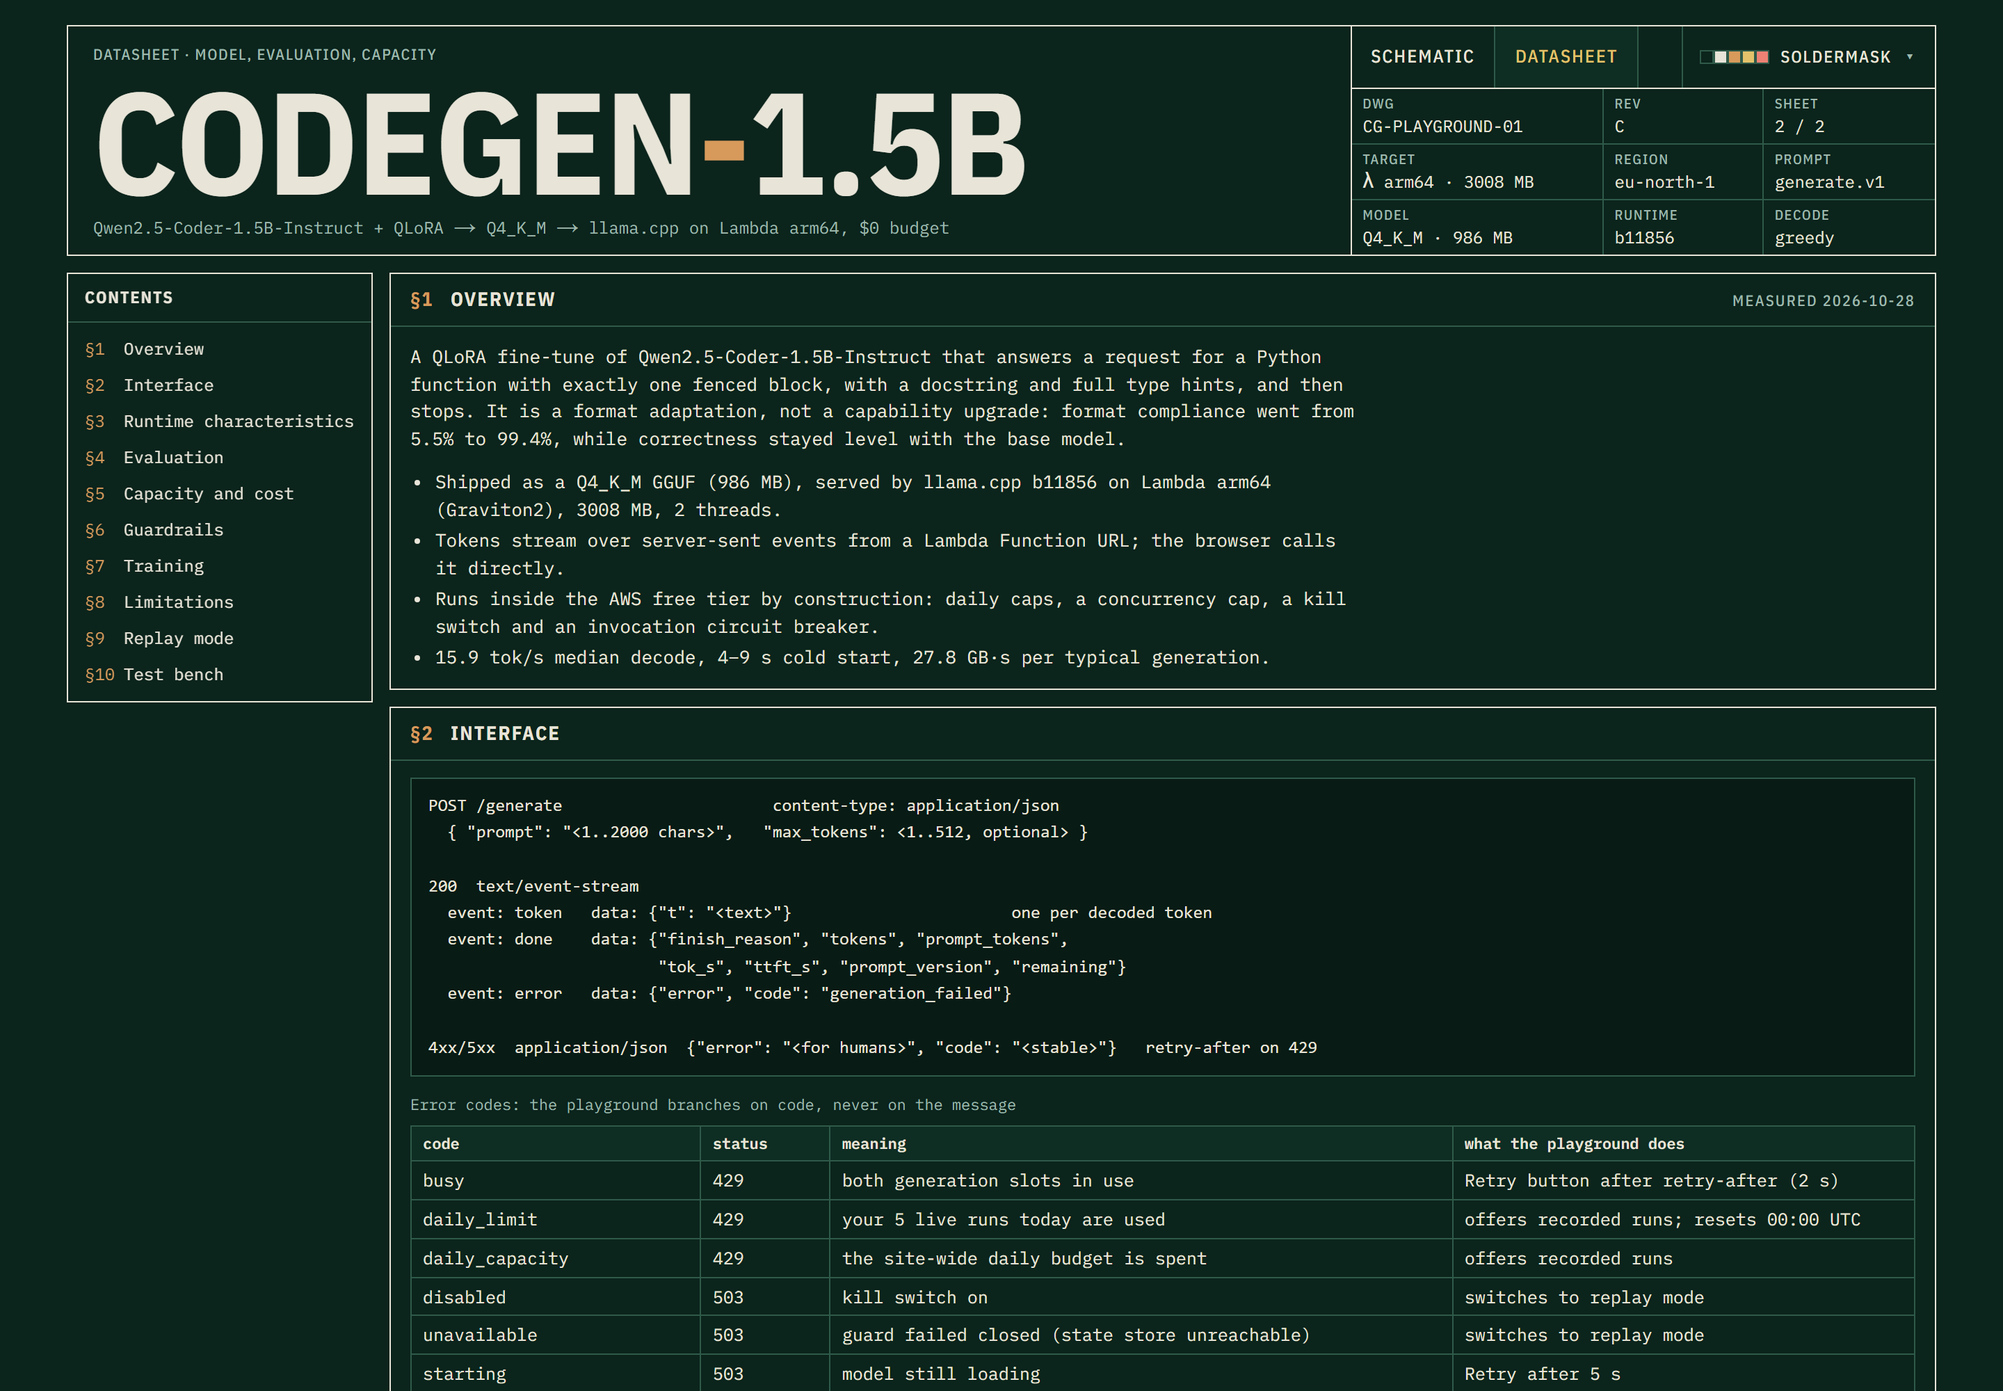
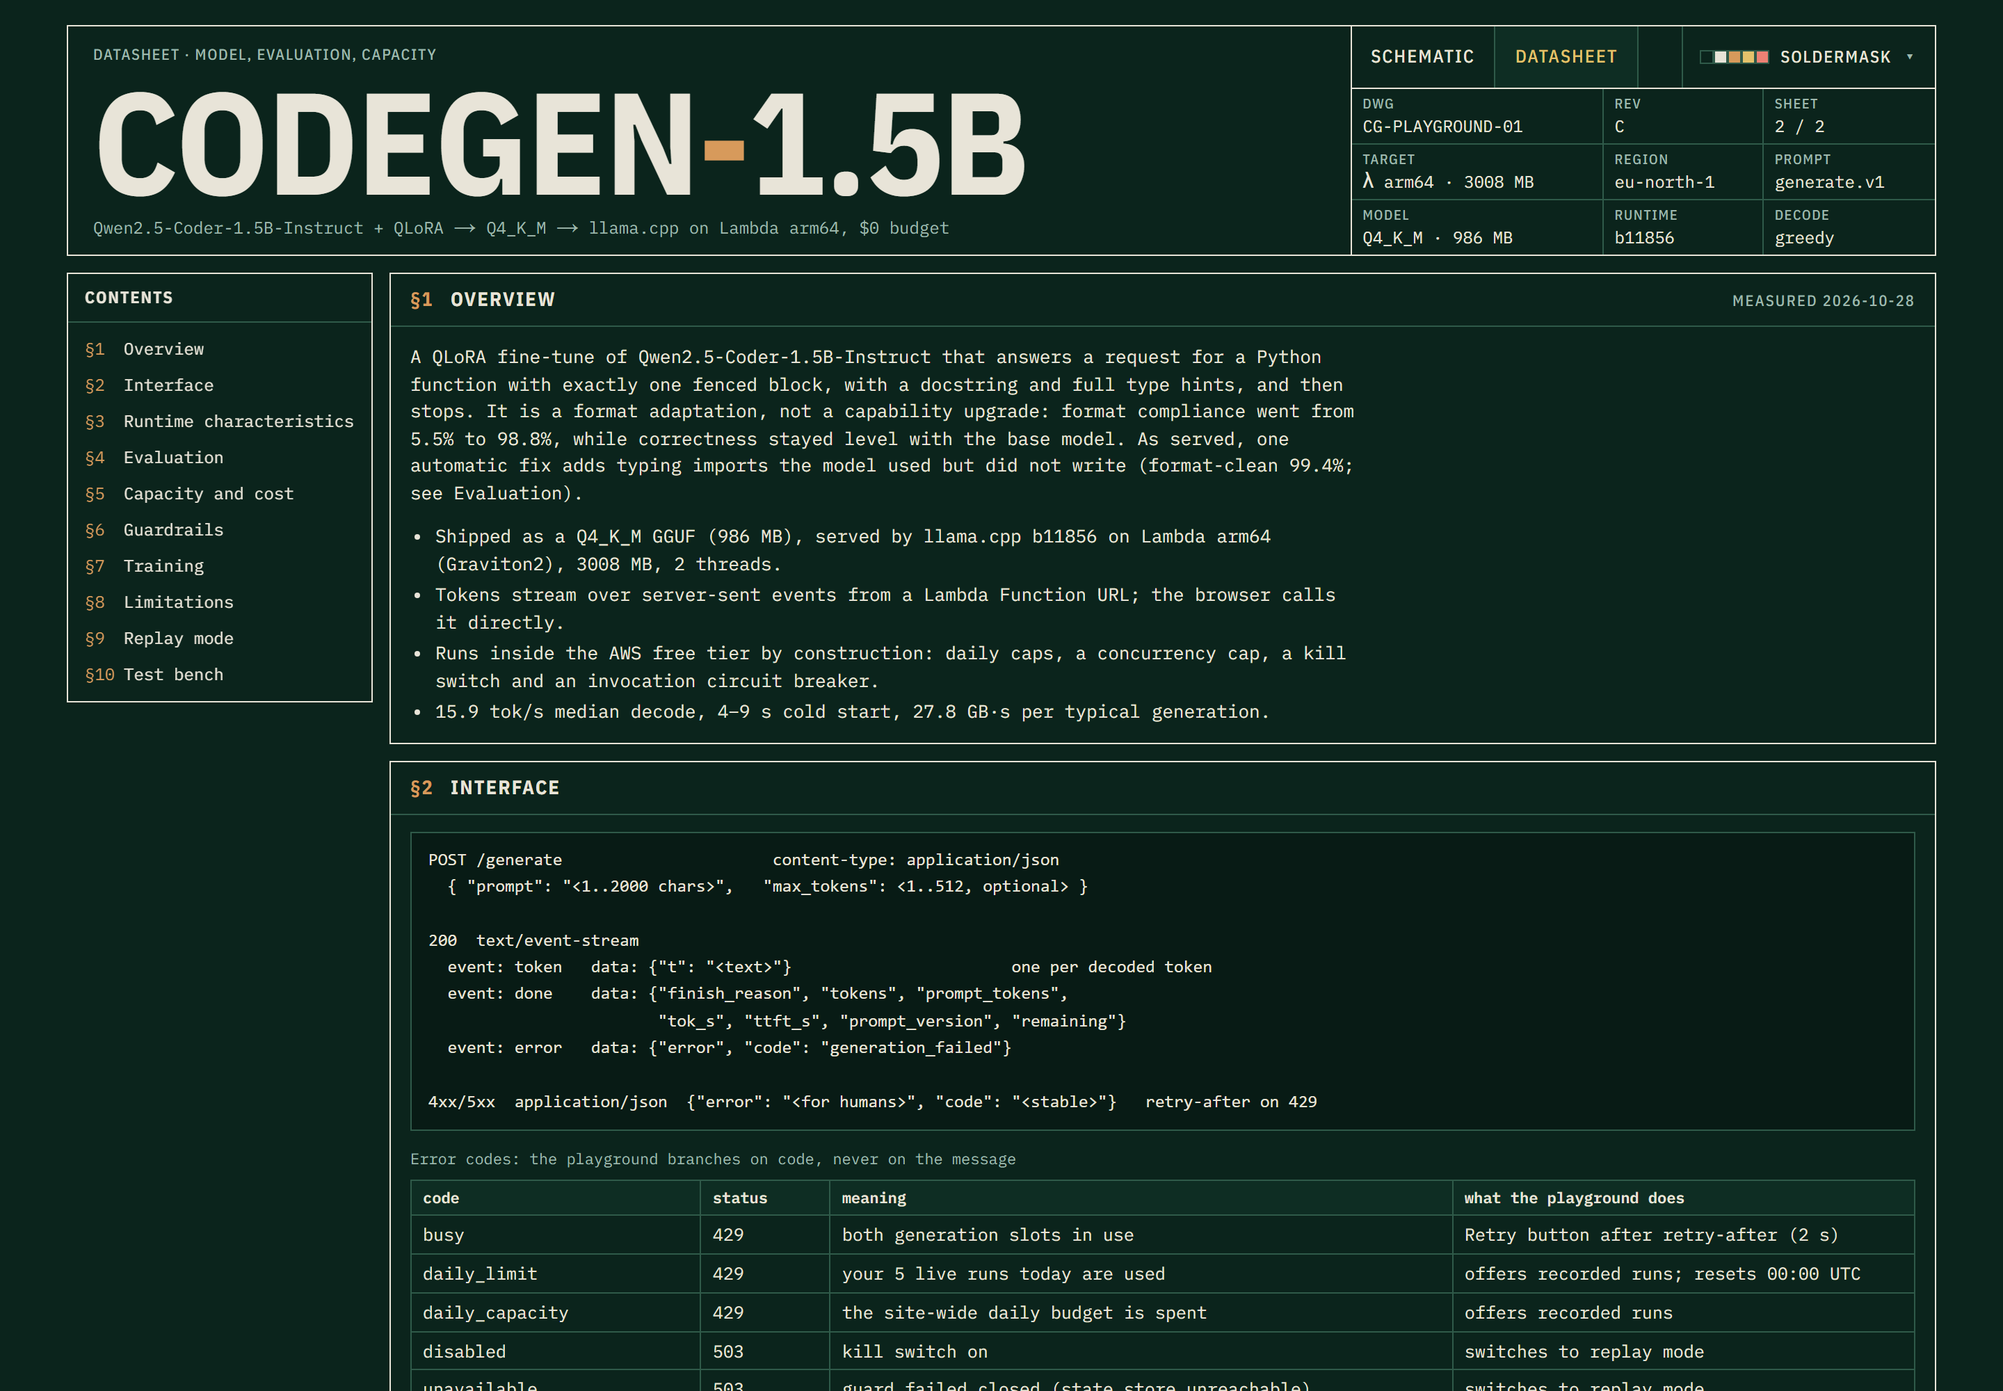
Docs and screenshots match the shipped state
- README: live mode on (recordings by default, Try it live opt-in), the import fix
  dated, the failure analysis and tuple probe summarised, the breaker's status
  note, local-dev wording; new desktop, phone, datasheet and test bench
  screenshots taken from the live site.
- runbook: current state live (2026-10-29), pause/open quick reference.
- smoke.yml: no longer claims the specs need a paused backend.
- model card limitations: measured failure modes. backend_capacity: plain labels
  instead of internal phase names. infra/README: the private test scripts.
- training README/SETUP: analysis step, test coverage, and the two GGUF
  conversion traps (sentencepiece fallback, HF cache symlinks).

Changed region(s): [[0.1875, 0.31, 0.6562, 1.0], [0.7188, 0.806, 0.9375, 1.0]]

diff --git a/README.md b/README.md
@@ -5,11 +5,14 @@ that streams its output and runs it.
 
 **Live site: https://d2js86b0xg0ozs.cloudfront.net**
 
-The backend is **paused by default** to protect the free tier. While it is paused, the site plays back recorded real
-runs and labels them as recordings. When it is live, each visitor gets up to 5 generations a day, within shared daily caps.
+The site opens on **recorded real runs** (labelled as recordings, played back with their original timing). Live
+generation is **on** (since 2026-10-29): **Try it live** sends a request to the real model, up to 5 per visitor per day
+within a shared daily cap, and the operator can pause it at any time, in which case the site stays on recordings.
 
 ![The playground: a recorded fibonacci run flowing through spec, guard, model and stream, with the generated listing](docs/assets/playground.png)
-<sub>The playground in replay mode: a recorded run from the deployed model, played back with its original token timing.</sub>
+<sub>The playground with live generation on: a recorded run has just played back (the default); <b>Try it live</b> sits next to it.</sub>
+
+<img src="docs/assets/playground-mobile.png" width="320" alt="The playground on a phone: summary, steps, the two buttons and the live notice">
 
 ## What it is
 
@@ -20,7 +23,8 @@ runs and labels them as recordings. When it is live, each visitor gets up to 5 g
 - **Guardrails:** daily quotas per IP and globally, a 2-slot concurrency cap, a two-layer kill switch and an invocation
   circuit breaker. They are what keep the worst case inside the Lambda free tier.
 - **Frontend:** a static Next.js export on S3 and CloudFront with a strict CSP. It also runs the generated code in the
-  browser with Pyodide (WebAssembly) and checks it there.
+  browser with Pyodide (WebAssembly) and checks it there. Recordings are the default; a live run is the visitor's
+  explicit choice, and a slow first request says it is waking the model rather than looking frozen.
 
 ## Results (measured 2026-10-28)
 
@@ -33,12 +37,18 @@ HumanEval, 164 problems, greedy decoding:
 | Format-clean (one block, typed, documented) | 5.5% | 100% | 98.8% | **99.4%** |
 | Mean response tokens | 300 | 167 | 167 | **167** |
 
-"As served" adds one generation-time fix: a typing name used in a type hint but not imported gets its import added
-(and the playground marks the line). It is a shipped mitigation, not a retrain, and changes 1 answer of 164.
+"As served" (2026-10-29) adds one generation-time fix: a typing name used in a type hint but not imported gets its
+import added, and the playground marks the line. It is a shipped mitigation, not a retrain, and changes 1 answer of 164.
 
 The fine-tune's main win is **format**, not accuracy. The bf16 accuracy gains are not statistically significant on
 164 problems (paired McNemar p = 0.26 and 0.08), and 4-bit quantization gives most of them back. The full analysis,
-the contamination check and the paired tests are in [docs/eval_report.md](docs/eval_report.md).
+the contamination check and the paired tests are in [docs/eval_report.md](docs/eval_report.md), which also has:
+
+- **Where it fails:** all 65 failing HumanEval tasks, categorised. The largest group (30) is spec reading, dropping a
+  stated rule or solving a neighbouring problem, and 25 of those 30 fail for the base model too.
+- **A tuple-immutability probe** (40 fresh tasks): assigning into a tuple happens for base and fine-tuned alike, 3 of 40
+  each, so it is inherited, not caused by the fine-tune. The fine-tuned model's bigger problem there was missing
+  typing imports, which the shipped fix addresses (23 to 27 of 40, against the base model's 24).
 
 On Lambda the model decodes at about 15.9 tok/s (11.7–19.1). A cold start takes 4–9 s and a typical generation is
 billed about 9.5 s. Details: [docs/backend_capacity.md](docs/backend_capacity.md).
@@ -58,7 +68,7 @@ it in a Web Worker, with a 5 s limit. The recorded runs score:
 | palindrome | 5/5 |
 | roman numerals | 5/5 |
 | anagram groups | 4/4 |
-| merge intervals | **2/5**: the model assigns to an element of an input tuple, which raises `TypeError` |
+| merge intervals | **2/5**: the model assigns to an element of an input tuple, which raises `TypeError` (the base model makes the same mistake; see the probe above) |
 
 ![Test bench on the merge_intervals replay: 2/5 checks pass, three fail with TypeError: 'tuple' object does not support item assignment](docs/assets/testbench-merge-intervals.png)
 
@@ -72,7 +82,7 @@ browser ── CloudFront ── S3 (static site, status.json)
    │
    └── Lambda Function URL (streaming) ── guard (DynamoDB: quotas, slots, kill flag)
                                        └── llama-server (Q4_K_M GGUF, arm64)
-CloudWatch alarm ── SNS ── breaker Lambda: kill flag on + URL locked + status.json "paused"
+CloudWatch alarm ── SNS ── breaker Lambda: kill flag on + URL locked + status.json "circuit breaker"
 ```
 
 | Folder | Contents |
@@ -99,8 +109,9 @@ if invocations go above 600 in 5 minutes.
 - **CI:** every push and pull request runs the frontend, backend guard and CPU-only training tests and builds the site;
   deploys stay manual ([runbook](docs/runbook.md#tests)).
 - **Training and evaluation:** [training/README.md](training/README.md), [training/SETUP.md](training/SETUP.md)
-- **Frontend locally:** `cd frontend && npm ci && npm run dev`. This runs against the real backend, which allows
-  `localhost:3000`, or falls back to replay mode while the backend is paused.
+- **Frontend locally:** `cd frontend && npm ci && npm run dev`, then http://localhost:3000. Recordings work offline;
+  Try it live talks to the real backend (which allows `localhost:3000`) when it is on. Local dev has no status.json,
+  so the page treats the backend as reachable and lets the first request decide.
 
 ## License
 

diff --git a/docs/runbook.md b/docs/runbook.md
@@ -2,22 +2,22 @@
 
 Site: **https://d2js86b0xg0ozs.cloudfront.net** (playground and `/notes/`). Backend: Lambda `codegen-backend`.
 
-## Going live to show someone (quick reference)
+## Live and paused (quick reference)
 
-The service is **parked by default**: kill switch ON, site in replay mode. Turn it on deliberately, turn it off after.
-There is no schedule that turns it on.
+**Current state: live since 2026-10-29** (opened deliberately; `infra\scripts\killswitch.ps1 status` is the source of
+truth). Nothing switches it on or off on a schedule; only these commands and the circuit breaker do.
 
 ```powershell
-infra\scripts\killswitch.ps1 off                    # 1. flag OFF, status.json -> live, URL auth -> NONE
-curl.exe -m 150 https://sug6pvql5qkkk3tm7udviuyoc40jwvys.lambda-url.eu-north-1.on.aws/health   # 2. warm-up
-#                                                      3. reload the site: U1 shows "Live", Run is enabled
-infra\scripts\killswitch.ps1 on                     # 4. afterwards: both layers back on, status.json -> paused
+infra\scripts\killswitch.ps1 on                     # pause: both layers on, status.json -> paused (the site shows recordings)
+infra\scripts\killswitch.ps1 off                    # open: flag OFF, status.json -> live, URL auth -> NONE
+curl.exe -m 150 https://sug6pvql5qkkk3tm7udviuyoc40jwvys.lambda-url.eu-north-1.on.aws/health   # after opening: warm-up
+#                                                      then reload the site: "Try it live" appears in the intro
 ```
 
 - With the backend on, the site still opens in replay mode (and plays a recording on a first visit). A live request
   happens only when a visitor presses **Try it live**, which appears in the intro only while status.json says live
   and becomes the reset time once that visitor's runs for the day are used.
-- **Step 2 is not optional.** If the function is cold, the first visitor waits 4-9 s for the first token. `{"ready": true}`
+- **The warm-up is not optional.** If the function is cold, the first visitor waits 4-9 s for the first token. `{"ready": true}`
   means warm. It works while the kill switch is ON, so it can come first.
 - **Reload pages that were already open.** The site reads status.json once on load; an open tab stays in replay mode.
 - **After `killswitch.ps1 on`, the next `off` takes ~25-40 s to take effect** (the URL auth change propagates slowly; requests
@@ -48,7 +48,7 @@ in AWS's new sign-up experience: AWS manages its Organization SCPs, and everythi
 - `killswitch.ps1 on` engages both layers. A later `sam deploy` resets layer 2 to the template (`AuthType: NONE`).
 - Both layers cut off traffic but do not stop an invocation already running; the longest is the 90 s function timeout.
 - After the breaker trips, recovery is manual: find the cause, then `killswitch.ps1 off`.
-- The deployed state is parked with layer 1 **ON** unless someone has deliberately turned it off.
+- The deployed state is whatever `killswitch.ps1 status` says. As of 2026-10-29 it is live: layer 1 OFF, URL auth NONE.
 
 Lambda reserved concurrency is not available (account quota is 10; AWS needs 100 unreserved). A quota increase
 request is pending (`d11cd98e7fb74f548ee977967d8d0df6C7iTHQM7`, to 1100). Until it is approved the concurrency cap is the

diff --git a/training/README.md b/training/README.md
@@ -82,6 +82,17 @@ python eval/humaneval_eval.py gen --config gguf_q4km --gguf ckpt250-Q4_K_M.gguf 
 python eval/report_tables.py base_bf16 merged_bf16 gguf_q4km
 ```
 
+Converting needs `sentencepiece` in the Python that runs `convert_hf_to_gguf.py` (see [SETUP.md](SETUP.md)).
+
+**10. Analysis on saved answers** (no generation). Where the shipped model fails, the tuple-immutability probe (base vs
+shipped, both as Q4_K_M GGUFs on llama.cpp), and the scores as served with the typing import fix:
+
+```bash
+python eval/failure_analysis.py diagnose && python eval/failure_analysis.py table
+python eval/tuple_probe.py validate      # then gen / score / table, see the script's header
+python eval/humaneval_eval.py score --config gguf_q4km --served
+```
+
 The Q4_K_M GGUF scores **64.0%** HumanEval and **61.0%** HumanEval+, with 98.8% format-clean output (64.6% / 61.6% /
 99.4% as served, with the generation-time typing import fix in `data_pipeline/typing_fix.py`; not a retrain). The full results,
 including why accuracy did not really improve, are in [docs/eval_report.md](../docs/eval_report.md); the model's specs
@@ -93,8 +104,10 @@ are in [docs/model_card.md](../docs/model_card.md).
 python -m pytest training/tests -q
 ```
 
-These cover the format checks, the sandboxed assert runner, the HumanEval program assembly, and the label masking.
-The masking test needs `transformers` and skips without it; one case also needs the built dataset.
+These cover the format checks, the sandboxed assert runner, the HumanEval program assembly, the label masking, the
+typing import fix (shared cases with the playground's copy) and the tuple probe (reference solutions and the scorer).
+The masking test needs `torch`, `transformers` and the cached tokenizer, so CI leaves it out (`--ignore`); run it in the
+training environment.
 
 ## Attribution
 

diff --git a/docs/README.md b/docs/README.md
@@ -2,9 +2,9 @@
 
 | File | Contents |
 |---|---|
-| [eval_report.md](eval_report.md) | HumanEval / HumanEval+ for base, fine-tuned bf16 and the shipped Q4_K_M GGUF; format checks, paired tests, contamination check |
+| [eval_report.md](eval_report.md) | HumanEval / HumanEval+ for base, fine-tuned bf16 and the shipped Q4_K_M GGUF; format checks, paired tests, contamination check; failure analysis, tuple-immutability probe, the shipped typing-import fix (model output vs as served) |
 | [model_card.md](model_card.md) | The shipped model: training data, settings, intended use, limits |
 | [backend_capacity.md](backend_capacity.md) | Lambda memory/thread choice, speed, cold starts and the free-tier ceiling, all measured |
 | [bench_lambda_results.json](bench_lambda_results.json), [bench_coldstart_results.json](bench_coldstart_results.json) | Raw benchmark data behind backend_capacity.md |
 | [runbook.md](runbook.md) | Operating the deployment: going live, pausing, deploying, recording replays, tests |
-| [assets/](assets/) | Screenshots used in the top-level README |
+| [assets/](assets/) | Screenshots used in the top-level README (taken 2026-10-29 from the live site) |

diff --git a/docs/model_card.md b/docs/model_card.md
@@ -71,5 +71,9 @@ signature, Google-style docstring and an iterative implementation, then end-of-t
   so avoid MBPP for evaluation without decontaminating.
 - Trained for single-turn requests; behaviour in multi-turn chat or when the user asks for prose is untested.
   It will always answer with one code block.
-- The model is 1.5B: expect the usual small-model failure modes (subtle logic errors, wrong edge cases).
+- The model is 1.5B: expect the usual small-model failure modes (subtle logic errors, wrong edge cases). Measured
+  (eval_report.md, "Failure analysis"): most failures are spec reading, dropping a stated rule or solving a nearby
+  problem, and most of those are inherited from the base model. It sometimes assigns into a tuple (3 of 40 probe tasks,
+  the same rate as the base model) and sometimes uses a typing name in a hint without importing it (1 of 164 on
+  HumanEval, 5 of 40 on the probe); the playground adds such imports after generation and marks them.
 - Serving needs an OpenMP runtime (`libgomp`) for the llama.cpp CPU build; the container must install it.

diff --git a/infra/README.md b/infra/README.md
@@ -17,6 +17,8 @@ AWS infrastructure as CloudFormation templates, deployed with the AWS SAM CLI (`
 | `scripts/killswitch.ps1` | Pause or resume the backend (kill flag plus Function URL auth) |
 | `scripts/live_tests_model.py` | Live checks against the deployed model: guardrails, error codes, SSE, CORS, status.json |
 | `scripts/live_tests_hardening.py` | Live checks: client-IP spoofing, warm-up rule, circuit breaker |
+| `scripts/live_tests_private.py` | The same guardrails with the Function URL kept locked to the public: SigV4-signed requests; `--breaker` trips the circuit breaker with real traffic |
+| `scripts/signing_proxy.py` | Local-only proxy that signs the playground's requests, so the real UI can be tested against the backend while the URL stays locked |
 | `scripts/bench_lambda.py`, `scripts/bench_coldstart.py` | Memory/thread and cold-start benchmarks behind [docs/backend_capacity.md](../docs/backend_capacity.md) |
 | `teardown.ps1` | Delete the backend stack, or everything with `-All` |
 

diff --git a/frontend/README.md b/frontend/README.md
@@ -12,7 +12,7 @@ The playground site: a static Next.js export (pages router, built with webpack) 
 | `src/data/checks.ts` | Hand-written check suites for the five example prompts |
 | `src/data/compare.ts` | The before/after pair: one real base and shipped answer from the HumanEval records, verbatim |
 | `src/data/key.ts` | Plain-language block subtitles and the schematic key |
-| `public/replays/` | Five recorded real runs, played back while the backend is paused |
+| `public/replays/` | Five recorded real runs: the default experience, and all there is while the backend is paused |
 | `public/testbench.worker.mjs` | Web Worker that runs generated code in Pyodide (CPython on WebAssembly) |
 | `scripts/` | `deploy.ps1`, `copy-pyodide.mjs` (runs before dev/build), `check-csp.mjs` (no inline scripts in the export), `og-image.mjs` (the link-preview image), `record_replays.py`, `contrast.mjs`, `serve_static.py` |
 

diff --git a/training/SETUP.md b/training/SETUP.md
@@ -51,6 +51,12 @@ Re-run it whenever the pins change.
 
 ## vLLM for bulk generation (separate venv)
 
+- **GGUF conversion (`convert_hf_to_gguf.py`).** Two traps, both hit here. (1) The converter tries a SentencePiece
+  vocabulary first and only falls back to Qwen's BPE vocabulary when the attempt fails with *file not found*; without
+  the `sentencepiece` package it fails on the import instead and stops. Run it with a Python that has `sentencepiece`
+  (the vLLM venv below does), plus `PYTHONPATH=<llama.cpp>/gguf-py`. (2) Point it at a plain copy of a Hugging Face
+  snapshot (`cp -rL <snapshot> <dir>`): the cache's symlinks into `blobs/` confuse it ("Unrecognized model").
+
 `generate_vllm.py` runs in its own venv so the pinned training stack is untouched
 (vLLM pulls its own torch). Working recipe on this machine (no sudo, no gcc, no CUDA toolkit):
 

diff --git a/docs/backend_capacity.md b/docs/backend_capacity.md
@@ -33,8 +33,8 @@ Weight repacking roughly doubles memory (a converted copy of the weights next to
 
 | Where | tok/s |
 |---|---|
-| WSL, 12 threads, x86 desktop (Phase 3) | 19.1 |
-| Docker x86, 2 CPUs (Spike 2) | 14-17 |
+| WSL, 12 threads, x86 desktop (the evaluation runs) | 19.1 |
+| Docker x86, 2 CPUs (local container test before the Lambda build) | 14-17 |
 | **Lambda Graviton2, 3008 MB (~1.7 vCPU), 2 threads** | **15.9** |
 | Lambda Graviton2, 1 thread | 8.8-11.0 |
 
